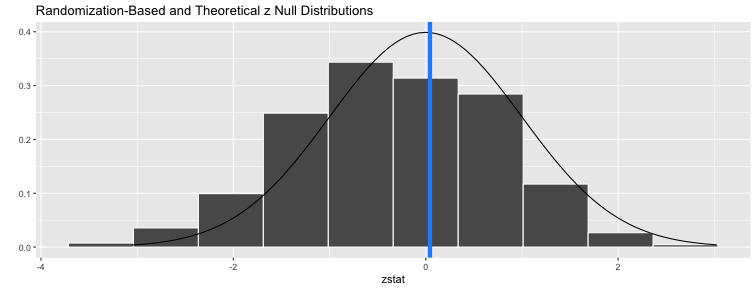
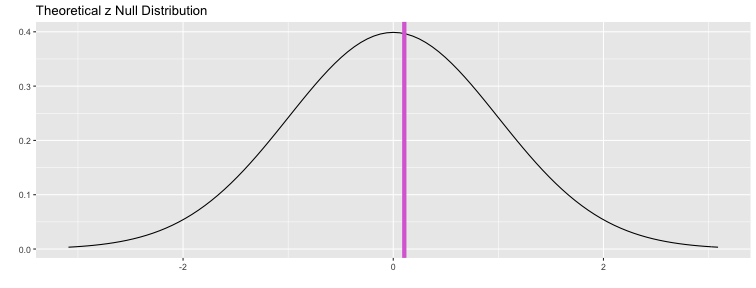
add pull statistic using broom + dplyr

diff --git a/day_02_inference/inference_slides.html b/day_02_inference/inference_slides.html
@@ -35,7 +35,7 @@ class: center, middle, inverse, title-slide
 
 ```r
 install.packages("tidyverse")
-install.packages("infer") # from CRAN
+install.packages("broom") 
 # today I'll use the development version
 install.packages("remotes")
 remotes::install_github("andrewpbray/infer", ref = "develop")
@@ -52,6 +52,7 @@ devtools::install_github("sfirke/janitor")
 library(tidyverse)
 library(infer)
 library(janitor)
+library(broom)
 ```
 
 
@@ -128,8 +129,8 @@ $ yawn  &lt;fct&gt; 0, 0, 0, 0, 0, 0, 0, 0, 0, 0, 0, 0, 0, 0, 0, 0, 0, 0, 0,...
 ---
 class: middle, center
 
-<div id="htmlwidget-fd3f0d199720cda98aa2" style="width:100%;height:auto;" class="datatables html-widget"></div>
-<script type="application/json" data-for="htmlwidget-fd3f0d199720cda98aa2">{"x":{"filter":"none","data":[["1","2","3","4","5","6","7","8","9","10","11","12","13","14","15","16","17","18","19","20","21","22","23","24","25","26","27","28","29","30","31","32","33","34","35","36","37","38","39","40","41","42","43","44","45","46","47","48","49","50"],[1,2,3,4,5,6,7,8,9,10,11,12,13,14,15,16,17,18,19,20,21,22,23,24,25,26,27,28,29,30,31,32,33,34,35,36,37,38,39,40,41,42,43,44,45,46,47,48,49,50],["control","control","control","control","control","control","control","control","control","control","control","control","seed","seed","seed","seed","seed","seed","seed","seed","seed","seed","seed","seed","seed","seed","seed","seed","seed","seed","seed","seed","seed","seed","seed","seed","control","control","control","control","seed","seed","seed","seed","seed","seed","seed","seed","seed","seed"],["0","0","0","0","0","0","0","0","0","0","0","0","0","0","0","0","0","0","0","0","0","0","0","0","0","0","0","0","0","0","0","0","0","0","0","0","1","1","1","1","1","1","1","1","1","1","1","1","1","1"]],"container":"<table class=\"display\">\n  <thead>\n    <tr>\n      <th> <\/th>\n      <th>subj<\/th>\n      <th>group<\/th>\n      <th>yawn<\/th>\n    <\/tr>\n  <\/thead>\n<\/table>","options":{"pageLength":8,"columnDefs":[{"className":"dt-right","targets":1},{"orderable":false,"targets":0}],"order":[],"autoWidth":false,"orderClasses":false,"lengthMenu":[8,10,25,50,100]}},"evals":[],"jsHooks":[]}</script>
+<div id="htmlwidget-30a606381468a807ccea" style="width:100%;height:auto;" class="datatables html-widget"></div>
+<script type="application/json" data-for="htmlwidget-30a606381468a807ccea">{"x":{"filter":"none","data":[["1","2","3","4","5","6","7","8","9","10","11","12","13","14","15","16","17","18","19","20","21","22","23","24","25","26","27","28","29","30","31","32","33","34","35","36","37","38","39","40","41","42","43","44","45","46","47","48","49","50"],[1,2,3,4,5,6,7,8,9,10,11,12,13,14,15,16,17,18,19,20,21,22,23,24,25,26,27,28,29,30,31,32,33,34,35,36,37,38,39,40,41,42,43,44,45,46,47,48,49,50],["control","control","control","control","control","control","control","control","control","control","control","control","seed","seed","seed","seed","seed","seed","seed","seed","seed","seed","seed","seed","seed","seed","seed","seed","seed","seed","seed","seed","seed","seed","seed","seed","control","control","control","control","seed","seed","seed","seed","seed","seed","seed","seed","seed","seed"],["0","0","0","0","0","0","0","0","0","0","0","0","0","0","0","0","0","0","0","0","0","0","0","0","0","0","0","0","0","0","0","0","0","0","0","0","1","1","1","1","1","1","1","1","1","1","1","1","1","1"]],"container":"<table class=\"display\">\n  <thead>\n    <tr>\n      <th> <\/th>\n      <th>subj<\/th>\n      <th>group<\/th>\n      <th>yawn<\/th>\n    <\/tr>\n  <\/thead>\n<\/table>","options":{"pageLength":8,"columnDefs":[{"className":"dt-right","targets":1},{"orderable":false,"targets":0}],"order":[],"autoWidth":false,"orderClasses":false,"lengthMenu":[8,10,25,50,100]}},"evals":[],"jsHooks":[]}</script>
 
 ---
 
@@ -564,7 +565,9 @@ visualize(null_distn, bins = 10) +
 
 # Classical inference
 
-Rely on theory to tell us what the null distribution looks like. 
+Rely on theory to tell us what the null distribution looks like.
+
+
 
 
 ```r
@@ -573,17 +576,18 @@ yawn_myth %&gt;%
   hypothesize(null = "independence") %&gt;% 
   # generate() is not needed since we are not doing randomization
   # calculate(stat = "z") is implied based on variable types
-  visualize(method = "theoretical")  +
-  geom_vline(xintercept = obs_diff, color = "dodgerblue", size = 2) 
+  visualize(method = "theoretical") +
+  geom_vline(xintercept = obs_stat, color = "orchid", size = 2) 
 ```
 
-![](inference_slides_files/figure-html/unnamed-chunk-18-1.png)&lt;!-- --&gt;
+![](inference_slides_files/figure-html/unnamed-chunk-19-1.png)&lt;!-- --&gt;
+
 
 
 ---
 # Classical vs resampling
 
-Changed the `stat` to calculate to `z` now (before we did `diff in props`). 
+Changed the `stat` to calculate to `z` now (before we did `diff in props`).  
 
 
 ```r
@@ -593,10 +597,10 @@ yawn_myth %&gt;%
   generate(reps = 1000, type = "permute") %&gt;% 
   calculate(stat = "z", order = c("seed", "control")) %&gt;% 
   visualize(method = "both", bins = 10) +
-  geom_vline(xintercept = obs_diff, color = "dodgerblue", size = 2) 
+  geom_vline(xintercept = obs_stat, color = "orchid", size = 2)  
 ```
 
-![](inference_slides_files/figure-html/unnamed-chunk-19-1.png)&lt;!-- --&gt;
+![](inference_slides_files/figure-html/unnamed-chunk-20-1.png)&lt;!-- --&gt;
 
 ---
 
@@ -628,6 +632,21 @@ sample estimates:
 --
 
 What does this test assume?
+
+---
+
+# Pull out the z statistic
+
+The observed `z` value is 0.105042. 
+
+
+```r
+obs_stat &lt;- yz %&gt;% 
+  broom::tidy(yz) %&gt;% 
+  pull(statistic)
+```
+
+Now you can use `obs_stat` in `geom_vline(xintercept = obs_stat)` when added to `visualize`!
 
 ---
 
